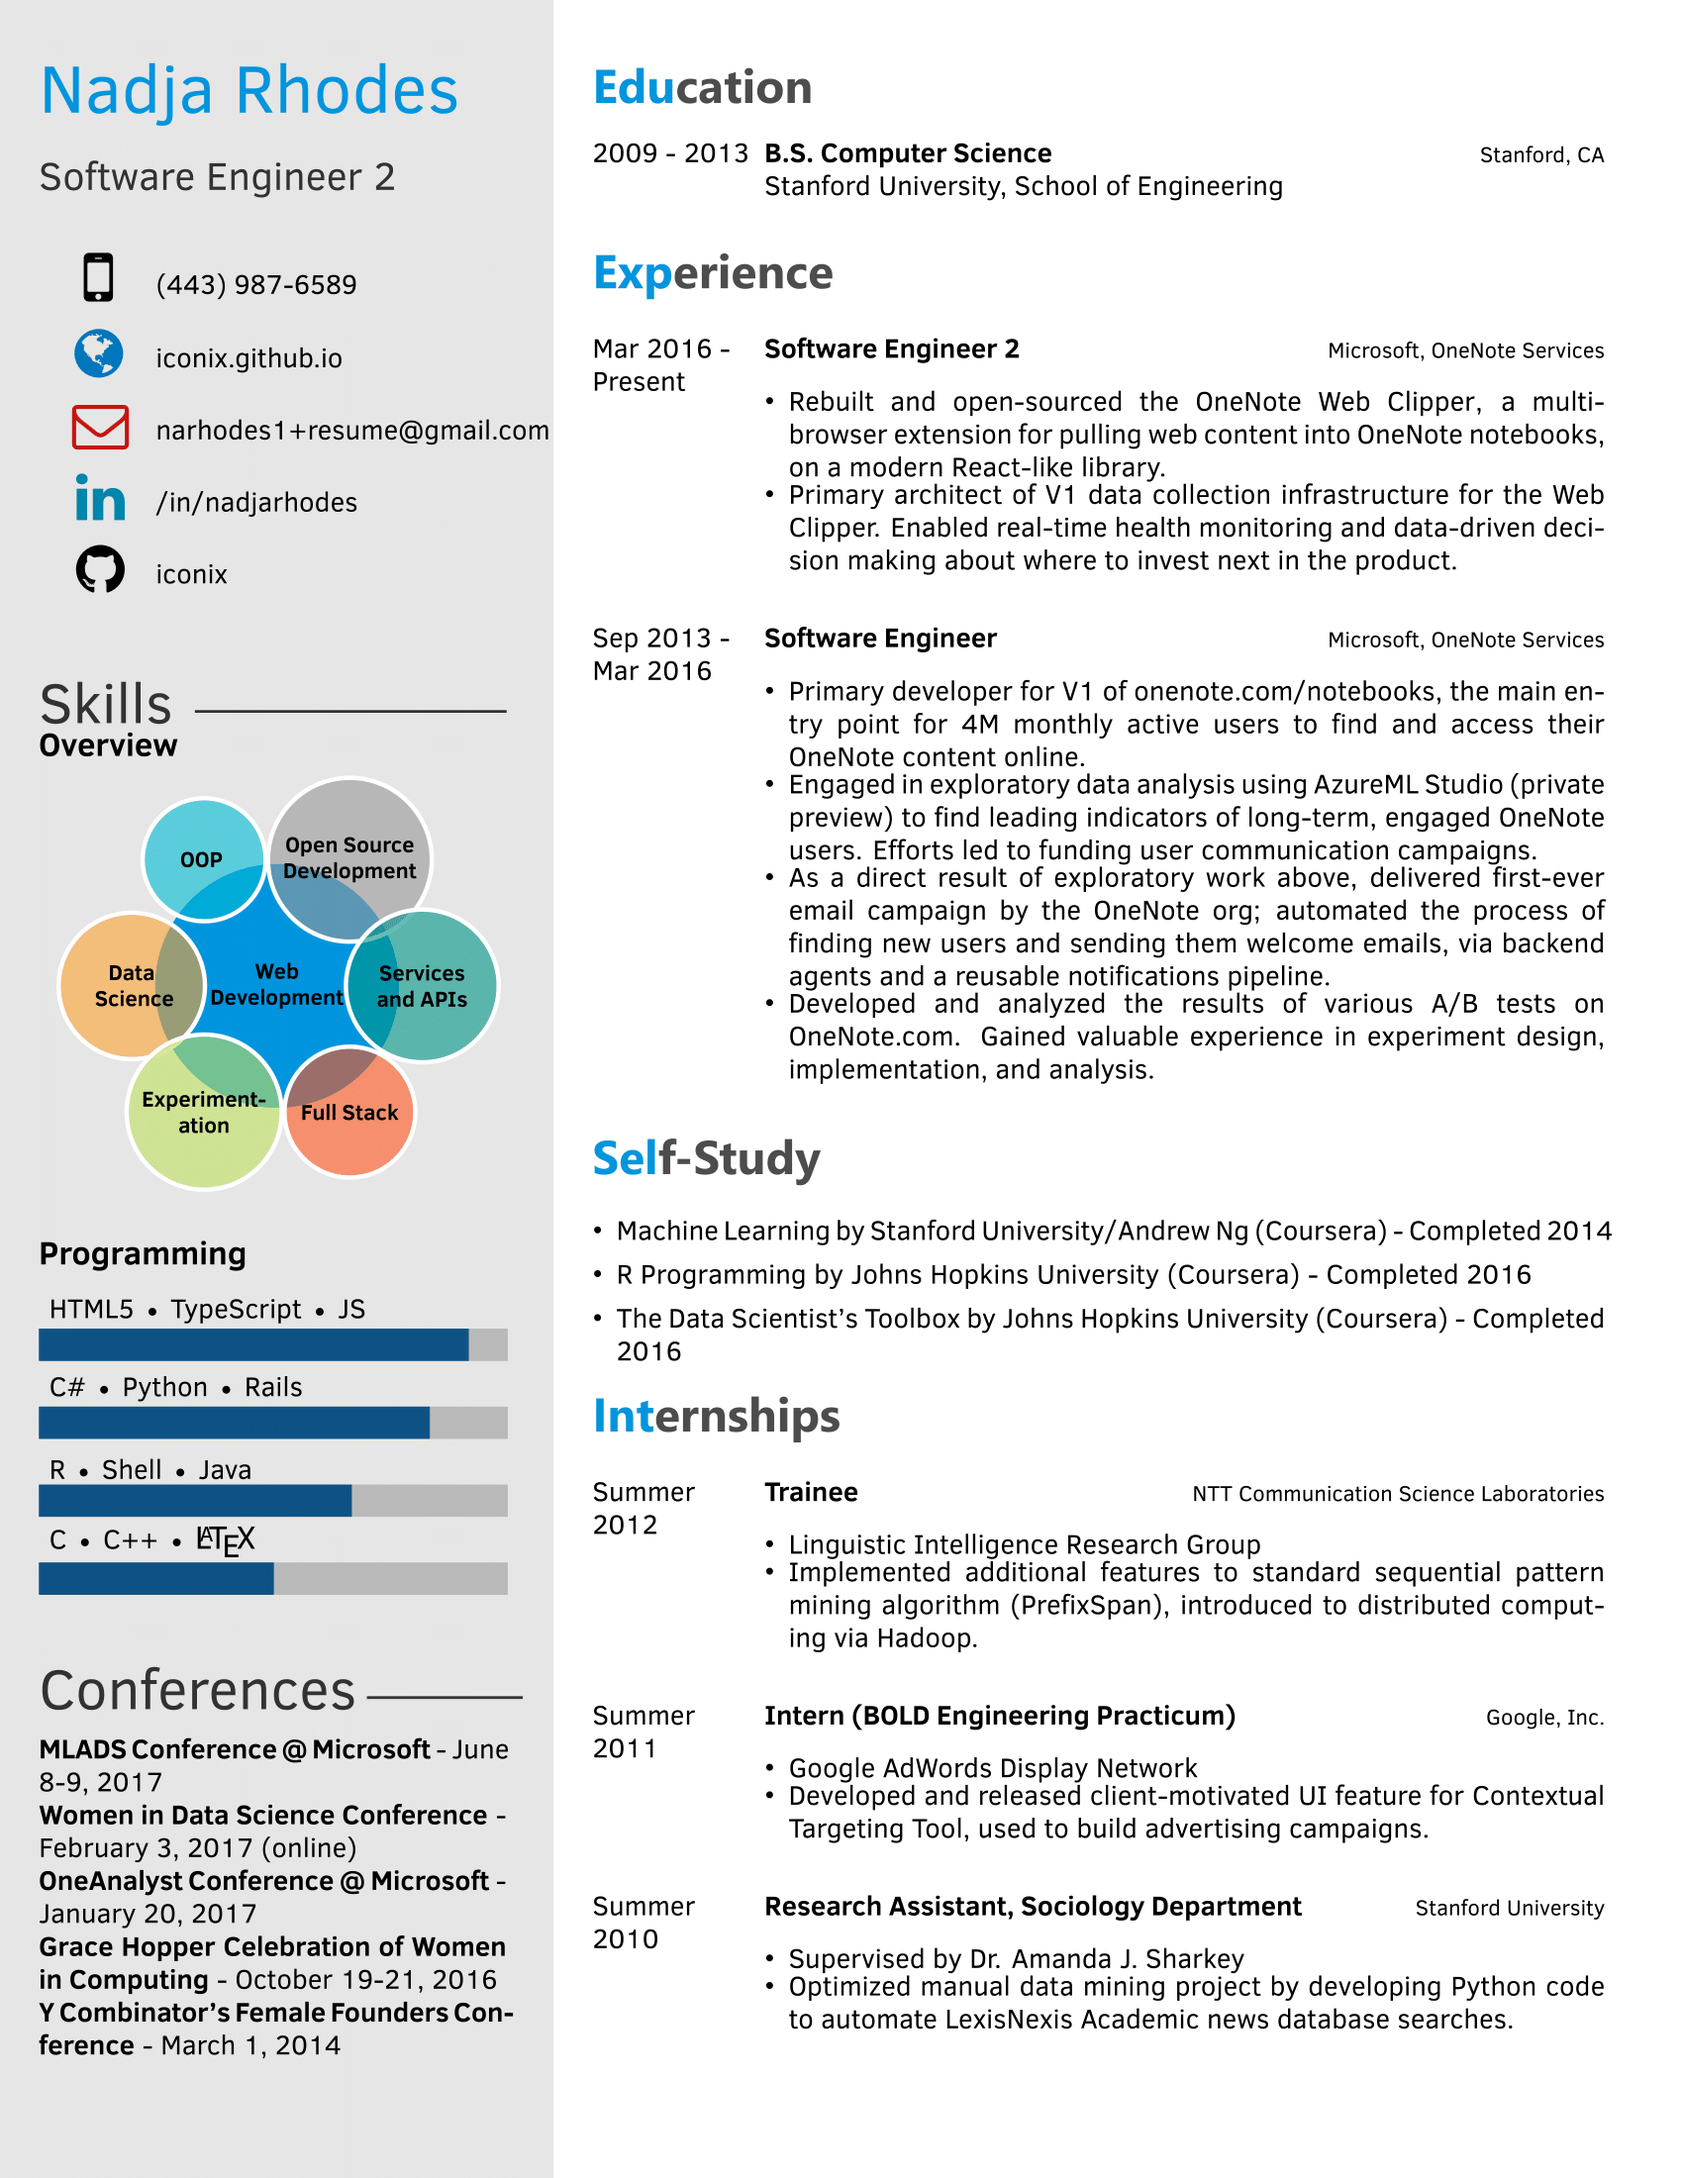
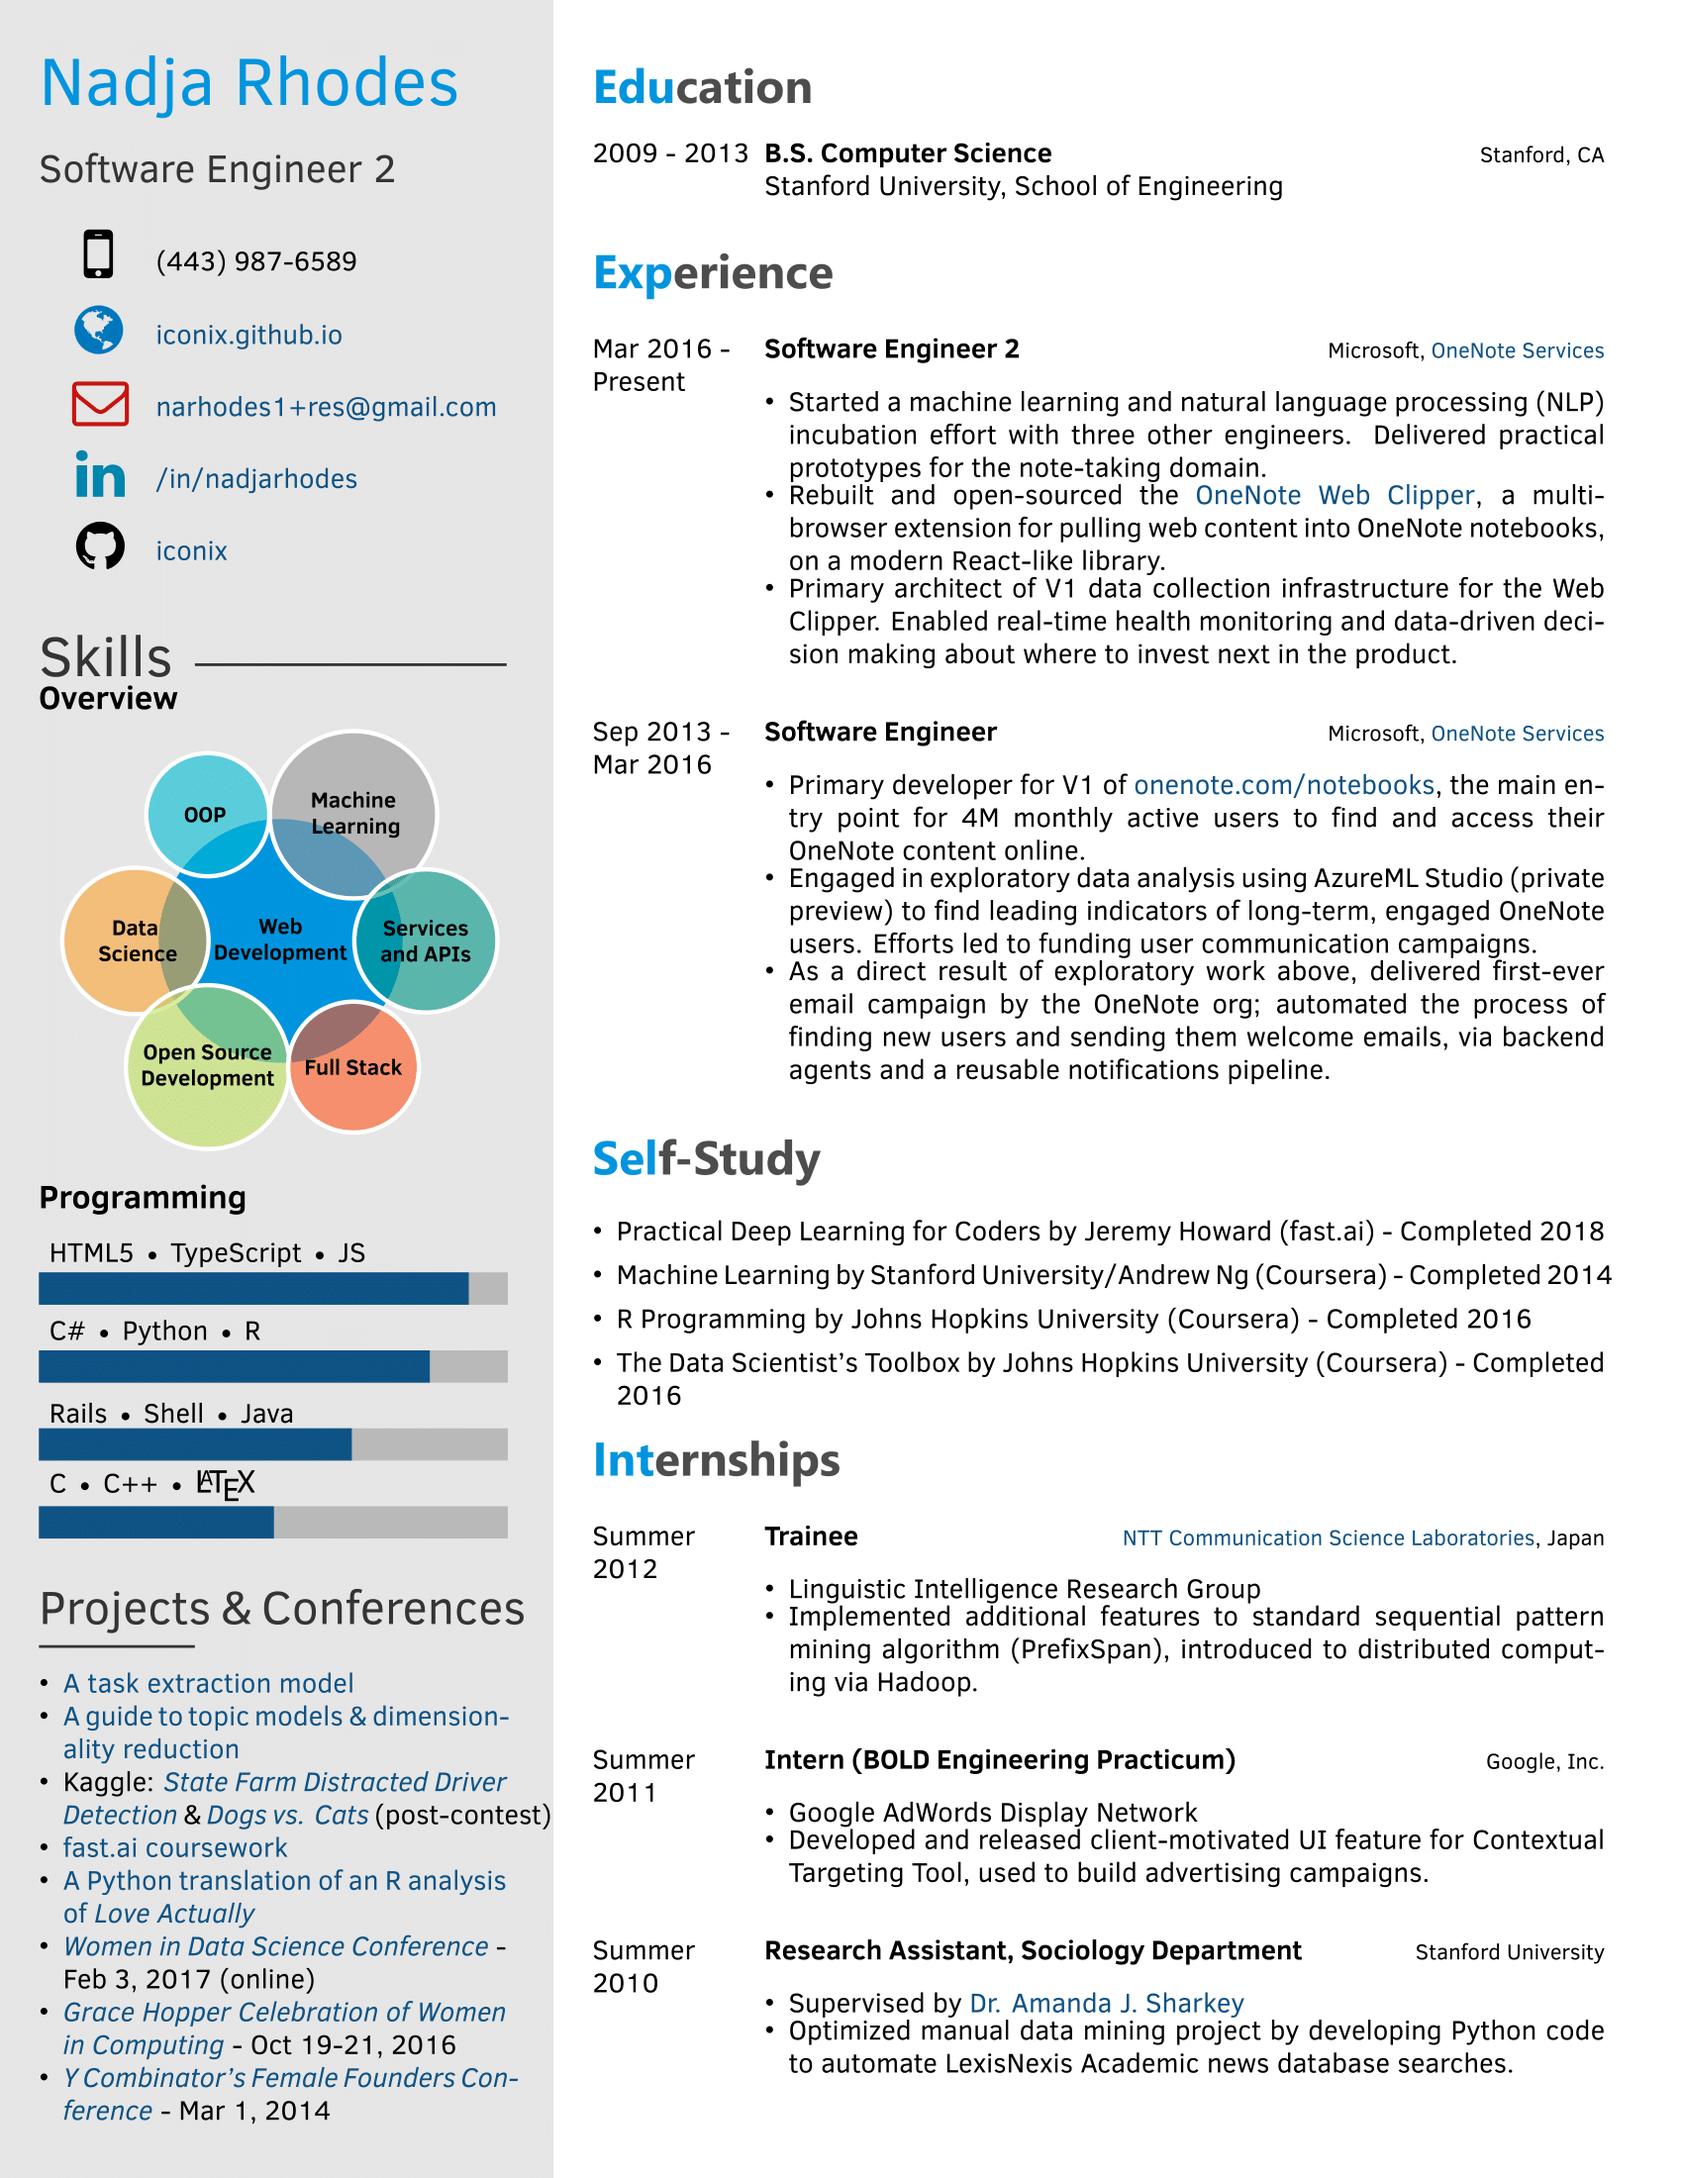
Refine links, tweak wording

diff --git a/latex/datascience/template.tex b/latex/datascience/template.tex
@@ -42,9 +42,8 @@
     {\noindent\color{black!80} \LARGE Projects \& Conferences \rule[0.15\baselineskip]{2cm}{1pt} \vspace{-5pt}}
 
     {\begin{itemize}  \itemsep -18pt %reduce space between items
-      \item A task extraction model \\ % TODO should I mention web service w/o a link?
-      \item \href{https://iconix.github.io/notes/2017/12/07/topics-and-dim-reduction.html}{Topic models \& dimensionality reduction} \\
-      \item \textit{pkmn.mars} React + DeepNLP web app \\
+      \item \href{https://iconix.github.io/portfolio-building/2017/09/25/nlp-for-tasks.html}{A task extraction model} \\
+      \item \href{https://iconix.github.io/notes/2017/12/07/topics-and-dim-reduction.html}{A guide to topic models \& dimensionality reduction} \\
       \item Kaggle: \href{https://www.kaggle.com/c/state-farm-distracted-driver-detection}{\textit{State Farm Distracted Driver Detection}} \& \href{https://www.kaggle.com/c/dogs-vs-cats-redux-kernels-edition}{\textit{Dogs vs. Cats}} (post-contest) \\
       \item \href{https://github.com/iconix/fast.ai}{fast.ai coursework} \\
       \item \href{https://iconix.github.io/portfolio-building/2017/10/18/data-is-all-around-us.html}{A Python translation of an R analysis of \textit{Love Actually}} \\
@@ -103,12 +102,12 @@
     	{Mar 2016 -}
 		{Present}
         {Software Engineer 2}
-        {\href{http://www.onenote.com/}{Microsoft, OneNote Services}}
+        {Microsoft, \href{http://www.onenote.com/}{OneNote Services}}
         {}
         {
         {\begin{itemize} \itemsep -2pt %reduce space between items
-        \item Prototyped practical applications of machine learning and natural language processing in the notetaking domain, as part of a brand new incubation effort.
-        \item Rebuilt and open-sourced the \href{https://github.com/OneNoteDev/WebClipper/wiki}{OneNote Web Clipper}, a multi-browser extension for pulling web content into OneNote notebooks, on a modern React-like library.
+        \item Started a machine learning and natural language processing (NLP) incubation effort with three other engineers. Delivered practical prototypes for the note-taking domain.
+        \item Rebuilt and open-sourced the \href{https://github.com/OneNoteDev/WebClipper}{OneNote Web Clipper}, a multi-browser extension for pulling web content into OneNote notebooks, on a modern React-like library.
         \item Primary architect of V1 data collection infrastructure for the Web Clipper. Enabled real-time health monitoring and data-driven decision making about where to invest next in the product.
     \end{itemize}}
         }
@@ -117,7 +116,7 @@
     	{Sep 2013 -}
 		{Mar 2016}
         {Software Engineer}
-        {\href{http://www.onenote.com/}{Microsoft, OneNote Services}}
+        {Microsoft, \href{http://www.onenote.com/}{OneNote Services}}
         {}
         {
         {\begin{itemize} \itemsep -2pt %reduce space between items
@@ -149,7 +148,7 @@
     	{Summer}
         {2012}
         {Trainee}
-        {\href{http://www.kecl.ntt.co.jp/rps/index.html}{NTT Communication Science Laboratories, Japan}}
+        {\href{http://www.kecl.ntt.co.jp/rps/index.html}{NTT Communication Science Laboratories}, Japan}
         {}
         {\begin{itemize} \itemsep -2pt %reduce space between items
         \item Linguistic Intelligence Research Group
